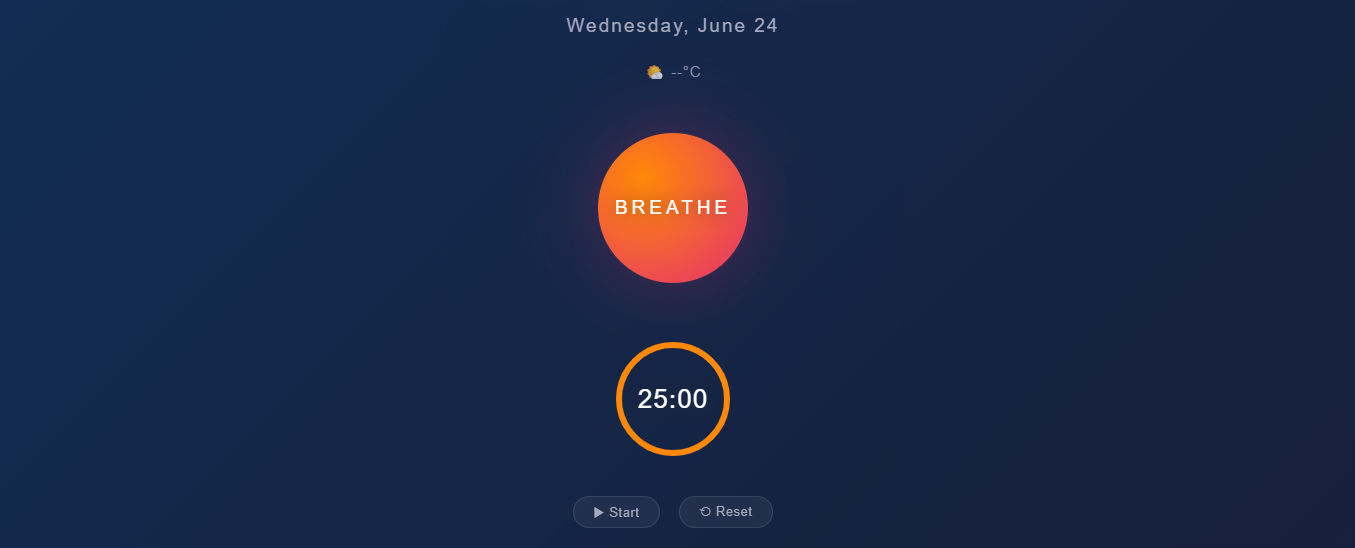
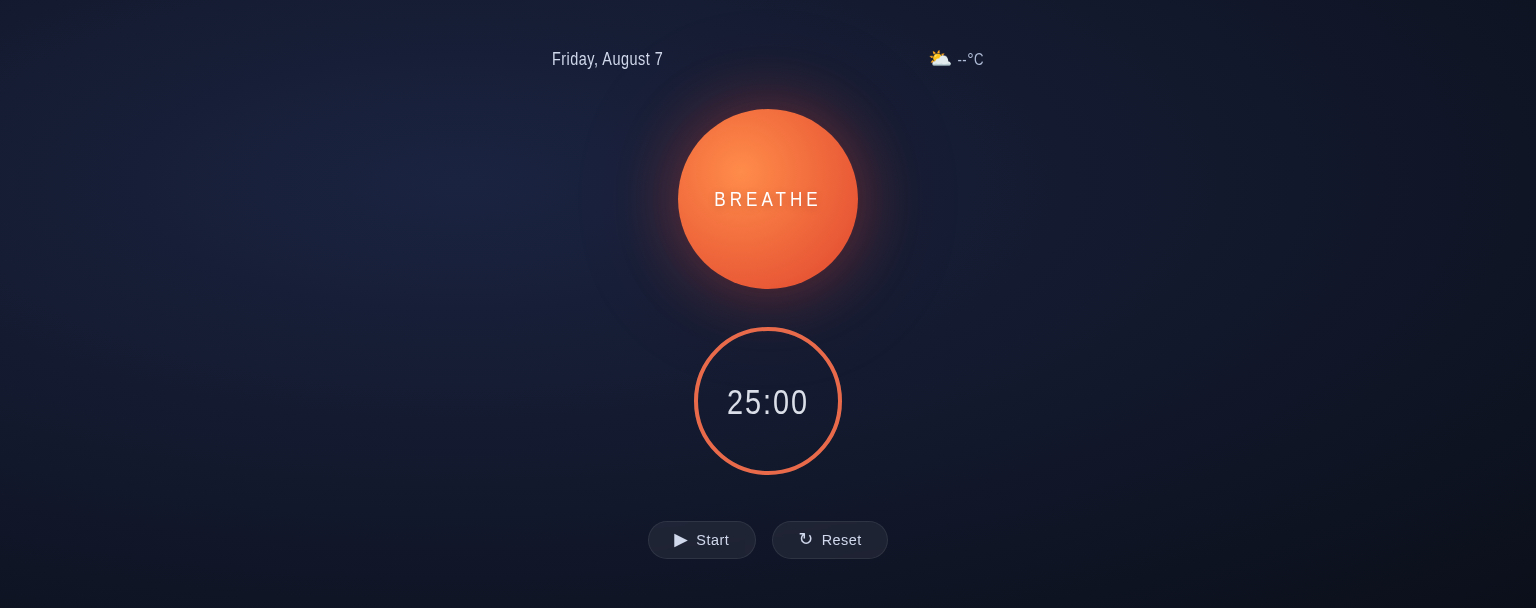
docs: align README/screenshot with current timer UI and remove orphaned assets

diff --git a/README.md b/README.md
@@ -1,98 +1,32 @@
-# 🍃 Zen Ambient Dashboard
+# Zen Ambient Dashboard
 
-[![License](https://img.shields.io/badge/license-MIT-green.svg)](LICENSE)
-[![Vite](https://img.shields.io/badge/built%20with-vite-646CFF.svg)](https://vitejs.dev/)
+A minimalist focus timer and breathing prompt with a calm, dark ambient aesthetic.
 
-> *A serene, browser-based sanctuary designed to bring a moment of calm to your day. Pull it up, breathe, and reset.*
+![Screenshot](screenshot.png)
 
-![Zen Ambient Dashboard](./screenshot.png)
-*A minimal breathing sanctuary — date, breathing circle, and ambient rain toggle.*
+## Features
 
-## 🧘 The Vibe
+- **25‑minute focus timer** (Pomodoro‑style) with a circular progress ring
+- **Breathing prompt** – tap the large glowing circle to start/pause the timer
+- **Start / Pause / Reset** controls
+- **Keyboard shortcuts** – press `Space` to start/pause, `R` to reset
+- **Live date** display
+- **Weather placeholder** – ready for API integration (currently shows `--°C`)
+- Fully responsive – works on desktop and mobile
 
-This isn't just another new tab page. It's a digital pause button. Built with a minimalist aesthetic, the Zen Ambient Dashboard combines soft visuals, subtle ambient soundscapes, and essential mindfulness tools to help you refocus, meditate, or simply exist without digital noise.
+## Usage
 
-Whether you need a 5-minute breathing break between meetings or a beautiful background while you work, this dashboard is your quiet corner of the internet.
+1. Click the **Start** button (or press `Space`) to begin the countdown.
+2. Click **Pause** (or press `Space` again) to pause.
+3. Click **Reset** (or press `R`) to reset back to 25:00.
+4. Tap the large **BREATHE** circle to toggle start/pause.
 
-## ✨ Core Features
+## Technologies
 
-- 🌌 **Dynamic Gradient Background** – A slow-shifting cosmic gradient that breathes with the breathing cycle.
-- 🌬 **4-7-8 Breathing Guide** – Click the circle to begin a guided breathing session (inhale→hold→exhale).
-- 🔊 **Ambient Rain Toggle** – Procedural rain sound synthesized with the Web Audio API, plays on click with smooth fade in/out.
-- 🕰 **Minimalist Date Display** – A clean, typographic display of the current date.
+- Pure HTML / CSS / JavaScript – no external dependencies
+- SVG for the timer ring
+- CSS gradients and subtle glow effects
 
-## 🛠 Tech Stack
+## Live Demo
 
-- **Frontend:** Vanilla HTML5, CSS3, & JavaScript (ES6+)
-- **Build:** Vite (fast HMR, optimized production builds)
-- **Audio:** Web Audio API (procedural brown-noise rain generator)
-- **Deployment:** Netlify (drag-and-drop or continuous deployment)
-
-## 🚀 Getting Started
-
-Follow these steps to get your own instance of the Zen Dashboard running locally.
-
-### Prerequisites
-- A modern web browser (Chrome, Firefox, Safari, Edge)
-- Node.js (v16 or later) and npm installed (for Vite)
-
-### Installation
-
-1.  **Clone the repository**
-    ```bash
-    git clone https://github.com/billybox1926-jpg/Zen-Ambient-Dashboard.git
-    cd Zen-Ambient-Dashboard
-    ```
-
-2.  **Install dependencies**
-    ```bash
-    npm install
-    ```
-
-3.  **Run the development server**
-    ```bash
-    npm run dev
-    ```
-
-4.  Open `http://localhost:5173` and enjoy the tranquility.
-
-## ⚙ Configuration
-
-To customize the dashboard to your liking:
-
-| Setting | How to change |
-| :--- | :--- |
-| **Gradient Colors** | Edit the `linear-gradient` values in `style.css` (under `body`). |
-| **Breathing Durations** | Adjust `delay(4000)`, `delay(7000)`, `delay(8000)` in `main.js`. |
-| **Rain Volume** | Change `setTargetAtTime(0.35, ...)` to your preferred level (0-1). |
-
-## 💡 Customization Ideas
-
-Feel free to fork this and make it your own! Here are a few ways to expand it:
-
-- **Add Forest/Ocean Sounds** – Swap the procedural rain for different nature samples.
-- **Chakra / Color Breathing** – Sync the background color shift with the breathing state.
-- **Offline Mode** – Cache the styles and script so it works without internet.
-- **Custom Gradient Presets** – Offer multiple ambient color schemes.
-
-## 🤝 Contributing
-
-This is a personal passion project, but I'm open to suggestions and collaborations that align with the "zen" philosophy!
-
-1.  Fork the Project
-2.  Create your Feature Branch (`git checkout -b feature/AmazingIdea`)
-3.  Commit your Changes (`git commit -m 'Add some AmazingIdea'`)
-4.  Push to the Branch (`git push origin feature/AmazingIdea`)
-5.  Open a Pull Request
-
-*Please keep all contributions simple, elegant, and clutter-free.*
-
-## 📄 License
-
-Distributed under the MIT License. See `LICENSE` for more information.
-
----
-
-**Made with ☕ and quiet intention.**
-
-*If this dashboard helps you find a moment of peace, I'd love to hear about it. ⭐ Star the repo if you like the direction!*
+[https://billybox1926-jpg.github.io/Zen-Ambient-Dashboard/](https://billybox1926-jpg.github.io/Zen-Ambient-Dashboard/)
